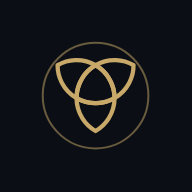
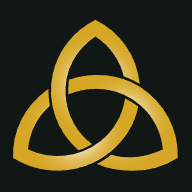
Her own mark, colours and name on the Triquetra card
The card was standing on a placeholder: a triquetra drawn here, a gold
guessed from the name, and a first name with no title. Her designer's export
settles all three, and her site settles the rest.

THE MARK is hers, from Logo Icon.svg: three filled strands in a gold radial
over a black hairline. Only the viewBox is new - squared and centred, no
fixed size - so make_art_vector.js now sizes a mark that carries no width or
height rather than trusting the browser's default for one.

A fill cannot be drawn with a dash, so the film no longer draws the shapes
themselves. Each strand sits under a mask whose content is a wide circle
about the strand's own centre, its dash let out from the strand's cut end,
so the pen still travels along each strand in turn and the old timing and
keyframes still apply. The ring is gone because her mark has none, and the
glint is clipped to the gold so it crosses the metal rather than the room.

THE COLOURS are hers too: gold #D3A72A from the mark, the green-black #111715
that every version of her logo sits on, and the forest green #004827 from her
green lockup as the light behind the mark. The change stays inside
[data-skin="law"], which only this card uses.

THE DETAILS come from her Team and Contact pages: Jennifer H. Burdman,
Co-Founder, jburdman@. The site lists the telephone as "By appointment",
gives no street address and links no LinkedIn, so the card carries none.
Two "Who you are hiring" lines are now her own words. One had said the
[…]

Changed region(s): [[0.0625, 0.0938, 0.9375, 0.9062]]

diff --git a/cards/triquetra/intro/intro.html b/cards/triquetra/intro/intro.html
@@ -1,38 +1,59 @@
 <div id="intro"><svg id="intro-svg" viewBox="0 0 390 844" preserveAspectRatio="xMidYMid slice" aria-hidden="true">
   <defs>
-    <linearGradient id="tqInk" x1="0" y1="0" x2="0" y2="1">
-      <stop offset="0" stop-color="#121725"/><stop offset=".55" stop-color="#0B0E14"/><stop offset="1" stop-color="#05070B"/>
-    </linearGradient>
+    <!-- the firm's own ground, from its green lockup: forest green under the
+         mark, falling away to the green-black every version of the logo sits on -->
+    <radialGradient id="tqInk" cx="195" cy="372" r="520" gradientUnits="userSpaceOnUse">
+      <stop offset="0" stop-color="#004827"/><stop offset="1" stop-color="#111715"/>
+    </radialGradient>
     <linearGradient id="tqGlint" x1="0" y1="0" x2="1" y2="0">
       <stop offset="0" stop-color="#fff" stop-opacity="0"/><stop offset=".5" stop-color="#fff" stop-opacity=".85"/><stop offset="1" stop-color="#fff" stop-opacity="0"/>
     </linearGradient>
-    <filter id="tqGlow" x="-40%" y="-40%" width="180%" height="180%">
-      <feGaussianBlur stdDeviation="4" result="b"/><feMerge><feMergeNode in="b"/><feMergeNode in="SourceGraphic"/></feMerge>
-    </filter>
+    <radialGradient id="tq-g1" cx="133.61" cy="125.07" r="62.54" gradientUnits="userSpaceOnUse"><stop offset=".25" stop-color="#fff"/><stop offset=".31" stop-color="#f9f2df"/><stop offset=".4" stop-color="#efdeae"/><stop offset=".5" stop-color="#e7cd84"/><stop offset=".59" stop-color="#e1bf61"/><stop offset=".69" stop-color="#dcb447"/><stop offset=".79" stop-color="#d8ad34"/><stop offset=".89" stop-color="#d6a828"/><stop offset="1" stop-color="#d6a725"/></radialGradient><radialGradient id="tq-g2" cx="133.5" cy="124.45" r="60.78" href="#tq-g1" xlink:href="#tq-g1"/><radialGradient id="tq-g3" cx="76.1" cy="133.53" r="64.26" href="#tq-g1" xlink:href="#tq-g1"/><radialGradient id="tq-g4" cx="75.98" cy="134.33" r="61.88" href="#tq-g1" xlink:href="#tq-g1"/><radialGradient id="tq-g5" cx="99.91" cy="79.28" r="67.78" href="#tq-g1" xlink:href="#tq-g1"/><radialGradient id="tq-g6" cx="99.67" cy="79.23" r="65.41" href="#tq-g1" xlink:href="#tq-g1"/>
+    <!-- THE PEN. The logo is three filled strands, and a fill cannot be drawn,
+         so each strand is uncovered by a mask instead: a circle about the
+         strand's own centre, stroked wide enough to cover it, its dash let out
+         from the cut end of the strand round to the other. pathLength="1"
+         keeps the dash in whole turns, so the three strands finish in step. -->
+    <mask id="tq-m1" maskUnits="userSpaceOnUse" x="-20" y="-20" width="240" height="224">
+      <circle id="tq-k1" pathLength="1" cx="99.91" cy="79.28" r="58" fill="none" stroke="#fff" stroke-width="68" transform="rotate(89 99.91 79.28)"/>
+    </mask>
+    <mask id="tq-m2" maskUnits="userSpaceOnUse" x="-20" y="-20" width="240" height="224">
+      <circle id="tq-k2" pathLength="1" cx="133.61" cy="125.07" r="58" fill="none" stroke="#fff" stroke-width="68" transform="rotate(203.5 133.61 125.07)"/>
+    </mask>
+    <mask id="tq-m3" maskUnits="userSpaceOnUse" x="-20" y="-20" width="240" height="224">
+      <circle id="tq-k3" pathLength="1" cx="76.1" cy="133.53" r="58" fill="none" stroke="#fff" stroke-width="68" transform="rotate(323.5 76.1 133.53)"/>
+    </mask>
+    <clipPath id="tq-clip"><use href="#tq-p1"/><use href="#tq-p2"/><use href="#tq-p3"/><use href="#tq-p4"/><use href="#tq-p5"/><use href="#tq-p6"/></clipPath>
   </defs>
 
   <rect width="390" height="844" fill="url(#tqInk)"/>
 
-  <!-- THE MARK, DRAWN. Each leaf carries pathLength="1", so the dash runs in
-       its own units and no two leaves need the same real length to finish
-       together. Three strands, in the order the firm argues them. -->
-  <g id="tq-mark" transform="translate(195 372) scale(1.15) translate(-100 -100)"
-     fill="none" stroke="#C8A96A" stroke-width="5.2" stroke-linejoin="round" stroke-linecap="round" filter="url(#tqGlow)">
-    <circle id="tq-ring" cx="100" cy="100" r="64" stroke-width="2.4" opacity=".55" pathLength="1"/>
-    <g transform="translate(0 -10.2)">
-      <path id="tq-k1" pathLength="1" d="M100.000,73.442 A46.0,46.0 0 0 1 100.000,153.116 A46.0,46.0 0 0 1 100.000,73.442Z"/>
-      <path id="tq-k2" pathLength="1" d="M123.000,113.279 A46.0,46.0 0 0 1 54.000,73.442 A46.0,46.0 0 0 1 123.000,113.279Z"/>
-      <path id="tq-k3" pathLength="1" d="M77.000,113.279 A46.0,46.0 0 0 1 146.000,73.442 A46.0,46.0 0 0 1 77.000,113.279Z"/>
+  <!-- THE MARK, DRAWN - the firm's own, from Export/SVG/Logo Icon.svg. Black
+       hairlines under gold, each layer split by strand so one mask uncovers
+       both. Three strands, in the order the firm argues them. -->
+  <g id="tq-mark" transform="translate(195 372) scale(1.1) translate(-100.24 -91.9)">
+    <g>
+      <g mask="url(#tq-m1)"><path d="M64.24,92.09c1.72,23.8,12.87,45.16,31.98,59.26-5.88,3.9-10.15,5.44-16.27,7.71-26.77-23.09-39.06-58.31-31.36-93.15C54.87,37.51,74.21,13.36,100.28.5c29.57,14.06,50.02,43.25,53.62,75.45.07.66.24,2.11.19,2.33-5.72-3.39-12.6-6.95-19.35-9.26-4.72-19.87-16.97-36.93-34.33-48.18-24.06,15.48-38.25,42.54-36.17,71.25Z"/><path d="M100.38,18.3c-34.08,21.27-48.08,63.58-31.52,100.43,5.58,12.42,13.98,22.99,25.09,31.6-4.46,2.58-8.98,4.51-13.83,6.23-10.13-9.36-18.27-20.08-23.77-32.62-20.11-45.82-.44-98.47,44.05-121.06,10.03,4.88,18.49,11.35,26.11,19.37,13.38,14.17,22.25,31.71,24.99,51.74-4.92-2.35-9.55-4.75-14.91-6.65-5.24-20.58-18.24-37.8-36.21-49.05Z"/></g>
+      <g mask="url(#tq-m2)"><path d="M119.37,164.48c20.32,6.16,43.93,2.45,62.91-6.68-1.86-20.96-11.81-40.24-27.75-53.95-24.03-20.67-57.6-25.14-87.16-12.82-.15-6.83.12-11.88.91-17.99,28.82-9.59,61.12-7.41,86.58,8.99,29.28,18.87,46.76,51.17,45.55,86.16-16.66,10.59-35.7,15.91-55.42,15.6-14.11-.25-29.51-2.06-42.76-8.29,6.33-3.58,11.47-6.15,17.14-11.03Z"/><path d="M119.48,164.59c21.05,5.88,45.81,4.21,65.04-5.5-2.15-30.86-21.27-57.5-49.32-69.97-20.77-9.23-44.54-9.68-65.98-1.51-.17-4.97.35-9.8,1.38-14.68,27.38-8.77,57.18-5.07,81.54,9.91,29.29,18.02,46.88,49.89,46.24,84.14-14.38,8.94-30.19,13.74-46.89,14.55-14.83.7-29.32-1.67-43.05-7.35,5.15-2.93,6.59-5.96,11.04-9.59Z"/></g>
+      <g mask="url(#tq-m3)"><path d="M136.52,95.85c5.85,3.08,11.06,6.05,15.97,10-2.31,11.29-6.49,21.55-12.43,30.91C110.17,183.88,47.66,197.81.37,168.08c-1.25-33.08,14.48-63.4,41.2-82.43.3-.21,1.93-1.3,1.93-1.3,0,0-.15,1.25-.15,1.84.01,6.58.63,12.12,1.74,18.69-15.42,13.6-24.72,32.38-26.54,52.8,28.62,13.73,62.57,9.88,87.56-9.63,16.47-12.86,26.95-31.21,30.41-52.21Z"/><path d="M150.2,106.57c-10.19,45.83-53.59,77.2-100.16,74.99-17.07-.81-33.35-5.62-47.67-14.66-.12-12.42,1.95-24,6.02-35.44,6.59-17.42,17.87-32.18,32.83-43.47.22,5.66.76,10.67,1.63,16.17-15.64,14.23-25.03,33.58-26.52,54.9,24.69,12.41,54.05,11.98,78.29-.95,23.09-12.06,39.18-33.72,43.44-59.62l12.15,8.08Z"/></g>
     </g>
-    <g id="tq-shine" clip-path="none" opacity="0">
-      <rect x="-60" y="0" width="46" height="200" fill="url(#tqGlint)" transform="skewX(-16)" style="mix-blend-mode:screen"/>
+    <g>
+      <g mask="url(#tq-m1)"><path id="tq-p5" d="M63.94,91.59c1.72,23.8,12.87,45.16,31.98,59.26-5.88,3.9-10.15,5.44-16.27,7.71-26.77-23.09-39.06-58.31-31.36-93.15C54.57,37.01,73.91,12.86,99.98,0c29.57,14.06,50.02,43.25,53.62,75.45.07.66.24,2.11.19,2.33-5.72-3.39-12.6-6.95-19.35-9.26-4.72-19.87-16.97-36.93-34.33-48.18-24.06,15.48-38.25,42.54-36.17,71.25Z" fill="url(#tq-g5)"/><path id="tq-p6" d="M100.08,17.8c-34.08,21.27-48.08,63.58-31.52,100.43,5.58,12.42,13.98,22.99,25.09,31.6-4.46,2.58-8.98,4.51-13.83,6.23-10.13-9.36-18.27-20.08-23.77-32.62-20.11-45.82-.44-98.47,44.05-121.06,10.03,4.88,18.49,11.35,26.11,19.37,13.38,14.17,22.25,31.71,24.99,51.74-4.92-2.35-9.55-4.75-14.91-6.65-5.24-20.58-18.24-37.8-36.21-49.05Z" fill="url(#tq-g6)"/></g>
+      <g mask="url(#tq-m2)"><path id="tq-p1" d="M119.07,163.98c20.32,6.16,43.93,2.45,62.91-6.68-1.86-20.96-11.81-40.24-27.75-53.95-24.03-20.67-57.6-25.14-87.16-12.82-.15-6.83.12-11.88.91-17.99,28.82-9.59,61.12-7.41,86.58,8.99,29.28,18.87,46.76,51.17,45.55,86.16-16.66,10.59-35.7,15.91-55.42,15.6-14.11-.25-29.51-2.06-42.76-8.29,6.33-3.58,11.47-6.15,17.14-11.03Z" fill="url(#tq-g1)"/><path id="tq-p2" d="M119.18,164.09c21.05,5.88,45.81,4.21,65.04-5.5-2.15-30.86-21.27-57.5-49.32-69.97-20.77-9.23-44.54-9.68-65.98-1.51-.17-4.97.35-9.8,1.38-14.68,27.38-8.77,57.18-5.07,81.54,9.91,29.29,18.02,46.88,49.89,46.24,84.14-14.38,8.94-30.19,13.74-46.89,14.55-14.83.7-29.32-1.67-43.05-7.35,5.15-2.93,6.59-5.96,11.04-9.59Z" fill="url(#tq-g2)"/></g>
+      <g mask="url(#tq-m3)"><path id="tq-p3" d="M136.22,95.35c5.85,3.08,11.06,6.05,15.97,10-2.31,11.29-6.49,21.55-12.43,30.91C109.87,183.38,47.36,197.31.07,167.58c-1.25-33.08,14.48-63.4,41.2-82.43.3-.21,1.93-1.3,1.93-1.3,0,0-.15,1.25-.15,1.84.01,6.58.63,12.12,1.74,18.69-15.42,13.6-24.72,32.38-26.54,52.8,28.62,13.73,62.57,9.88,87.56-9.63,16.47-12.86,26.95-31.21,30.41-52.21Z" fill="url(#tq-g3)"/><path id="tq-p4" d="M149.9,106.07c-10.19,45.83-53.59,77.2-100.16,74.99-17.07-.81-33.35-5.62-47.67-14.66-.12-12.42,1.95-24,6.02-35.44,6.59-17.42,17.87-32.18,32.83-43.47.22,5.66.76,10.67,1.63,16.17-15.64,14.23-25.03,33.58-26.52,54.9,24.69,12.41,54.05,11.98,78.29-.95,23.09-12.06,39.18-33.72,43.44-59.62l12.15,8.08Z" fill="url(#tq-g4)"/></g>
+    </g>
+    <!-- the glint is cut to the gold, so it crosses the metal and not the room -->
+    <g clip-path="url(#tq-clip)">
+      <g id="tq-shine" opacity="0">
+        <rect x="-60" y="-10" width="46" height="204" fill="url(#tqGlint)" transform="skewX(-16)" style="mix-blend-mode:screen"/>
+      </g>
     </g>
   </g>
 
   <g id="tq-word" opacity="0">
     <text x="195" y="556" text-anchor="middle" class="tq-n">TRIQUETRA</text>
     <text x="195" y="586" text-anchor="middle" class="tq-s">LAW GROUP</text>
-    <line x1="155" y1="606" x2="235" y2="606" stroke="#C8A96A" stroke-width="1" opacity=".5"/>
+    <line x1="155" y1="606" x2="235" y2="606" stroke="#D3A72A" stroke-width="1" opacity=".5"/>
     <text x="195" y="632" text-anchor="middle" class="tq-t">INTELLECTUAL PROPERTY &#183; BOSTON</text>
   </g>
 </svg><div id="intro-acts"><button type="button" id="intro-install">Add to Home Screen</button></div></div>

diff --git a/cards/triquetra/intro/intro.css b/cards/triquetra/intro/intro.css
@@ -1,23 +1,21 @@
-/* TRIQUETRA LAW GROUP - the card's intro. The mark is a single line, so it
-   draws itself: three strands in the order the firm argues them, then the
-   ring closing round them, then the name. Nothing flies, nothing bounces -
+/* TRIQUETRA LAW GROUP - the card's intro. The firm's own mark draws itself:
+   three strands in the order the firm argues them, a glint across the gold,
+   then the name. Nothing flies, nothing bounces -
    this is a lawyer's card, and the film should read as composure.
    Phones and tablets only; a mouse-and-keyboard desktop and anyone who asked
    for less motion get the card straight away, as the template's does. */
-#intro{ position:fixed; inset:0; z-index:2147483000; background:#0B0E14; overflow:hidden; transition:opacity .6s ease }
+#intro{ position:fixed; inset:0; z-index:2147483000; background:#111715; overflow:hidden; transition:opacity .6s ease }
 #intro.out{ opacity:0; pointer-events:none }
 #intro-svg{ position:absolute; inset:0; width:100%; height:100% }
 html.intro-on, html.intro-on body{ overflow:hidden }
 
-/* the strands, hidden as a dash the length of their own path and then let out.
-   pathLength="1" on each means one unit is one whole leaf, so three leaves of
-   different real lengths still draw in step. */
+/* the strands, each under a mask whose pen is hidden as a dash one whole turn
+   long and then let out - see intro.html. pathLength="1" on each pen means one
+   unit is one turn, so three strands of different sizes still draw in step. */
 #tq-k1,#tq-k2,#tq-k3{ stroke-dasharray:1; stroke-dashoffset:1 }
-#tq-ring{ stroke-dasharray:1; stroke-dashoffset:1; transform-box:fill-box; transform-origin:center; transform:rotate(-90deg) }
-#intro.go #tq-k1{ animation:tqDraw .78s cubic-bezier(.4,0,.2,1) .18s both }
-#intro.go #tq-k2{ animation:tqDraw .78s cubic-bezier(.4,0,.2,1) .40s both }
-#intro.go #tq-k3{ animation:tqDraw .78s cubic-bezier(.4,0,.2,1) .62s both }
-#intro.go #tq-ring{ animation:tqDraw 1.05s cubic-bezier(.4,0,.2,1) .95s both }
+#intro.go #tq-k1{ animation:tqDraw .95s cubic-bezier(.4,0,.2,1) .18s both }
+#intro.go #tq-k2{ animation:tqDraw .95s cubic-bezier(.4,0,.2,1) .46s both }
+#intro.go #tq-k3{ animation:tqDraw .95s cubic-bezier(.4,0,.2,1) .74s both }
 @keyframes tqDraw{ to{ stroke-dashoffset:0 } }
 
 /* the glint: one pass across the finished mark, the only flourish there is */
@@ -25,17 +23,17 @@ html.intro-on, html.intro-on body{ overflow:hidden }
 @keyframes tqShine{ 0%{ opacity:0; transform:translateX(0) } 15%{ opacity:.9 } 100%{ opacity:0; transform:translateX(300px) } }
 
 /* the name: a serif, because every document this firm touches is set in one */
-#tq-word text{ font-family:"Iowan Old Style","Palatino Linotype",Palatino,Georgia,"Times New Roman",serif; fill:#F4EBD8 }
+#tq-word text{ font-family:"Iowan Old Style","Palatino Linotype",Palatino,Georgia,"Times New Roman",serif; fill:#FFFFFF }
 .tq-n{ font-size:30px; letter-spacing:.22em; font-weight:400 }
-.tq-s{ font-size:13px; letter-spacing:.40em; fill:#C8A96A !important }
-.tq-t{ font-size:9.5px; letter-spacing:.26em; fill:#8C8575 !important }
+.tq-s{ font-size:13px; letter-spacing:.40em; fill:#D3A72A !important }
+.tq-t{ font-size:9.5px; letter-spacing:.26em; fill:#93A39B !important }
 #intro.go #tq-word{ animation:tqRise .9s cubic-bezier(.25,.8,.3,1) 1.55s both }
 @keyframes tqRise{ from{ opacity:0; transform:translateY(14px) } to{ opacity:1; transform:none } }
 
 #intro-acts{ position:absolute; left:0; right:0; top:80%; display:flex; justify-content:center; padding:0 14%; pointer-events:none }
-#intro-acts button{ width:100%; max-width:300px; height:50px; border-radius:4px; border:1px solid #C8A96A; background:transparent; color:#C8A96A;
+#intro-acts button{ width:100%; max-width:300px; height:50px; border-radius:4px; border:1px solid #D3A72A; background:transparent; color:#D3A72A;
   font:600 12px/1 "Iowan Old Style",Georgia,serif; letter-spacing:.20em; text-transform:uppercase; opacity:0; cursor:pointer }
-#intro-acts button:focus-visible{ outline:2px solid #F4EBD8; outline-offset:3px }
+#intro-acts button:focus-visible{ outline:2px solid #FFFFFF; outline-offset:3px }
 #intro-acts.on{ pointer-events:auto }
 #intro-acts.on button{ animation:tqFade .8s ease both }
 @keyframes tqFade{ to{ opacity:1 } }

diff --git a/tools/card/make_art_vector.js b/tools/card/make_art_vector.js
@@ -34,7 +34,11 @@ if (!fs.existsSync(markFile)) {
   process.exit(1);
 }
 const card = JSON.parse(fs.readFileSync(path.join(dir, 'card.json'), 'utf8'));
-const mark = fs.readFileSync(markFile, 'utf8').replace(/width="\d+"\s+height="\d+"/, 'width="100%" height="100%"');
+/* the mark fills its box whatever size it was saved at - or at none, which is
+   how a viewBox-only drawing arrives */
+const mark = fs.readFileSync(markFile, 'utf8')
+  .replace(/<svg\b([^>]*)>/, (m, a) => '<svg' + a.replace(/\s(width|height)="[^"]*"/g, '') +
+    ' width="100%" height="100%" style="display:block">');
 const bg = ((card.art || {}).icon || {}).bg || (card.theme || {}).bg || '#000';
 const OUT = path.join(dir, 'art');
 

diff --git a/cards/template/card.css b/cards/template/card.css
@@ -447,7 +447,7 @@ html .consent__btn--no{ color:var(--text); border-color:var(--line) }
   --panel:rgb(255 255 255 / .028);
 }
 [data-skin="law"] body{
-  background:linear-gradient(180deg,#121725 0%,#0B0E14 55%,#05070B 100%) fixed;
+  background:radial-gradient(130% 70% at 50% 0%,#004827 0%,#111715 72%) fixed #111715;
 }
 /* panels are bounded by a line, not lifted by a shadow */
 [data-skin="law"] :is(.id,.act,.soc-row,.mod,.save){
